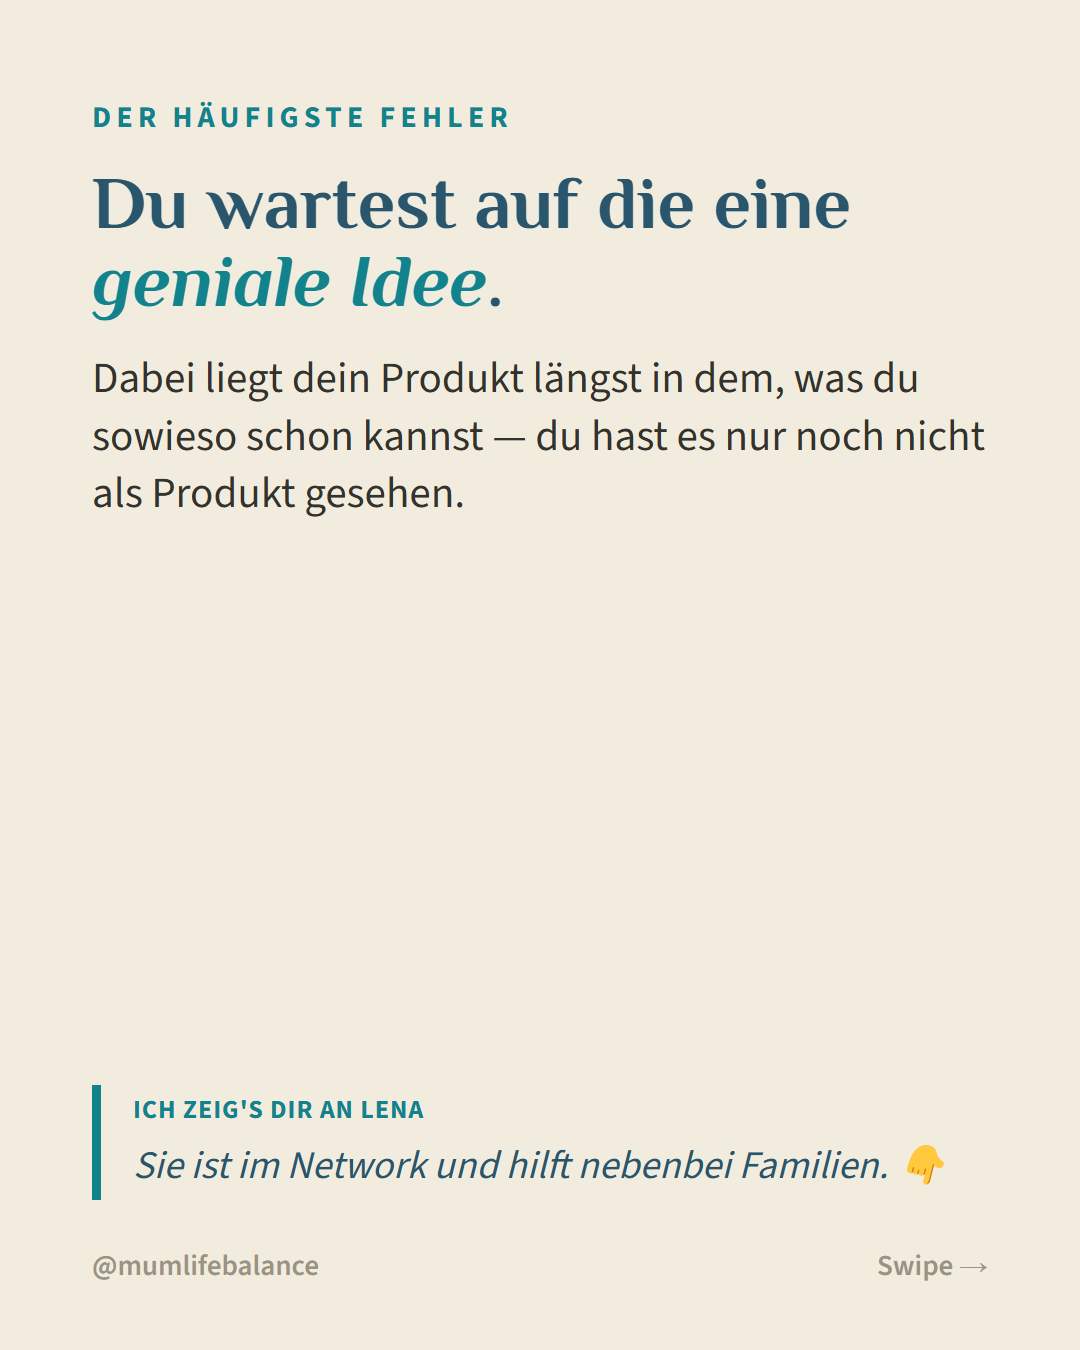
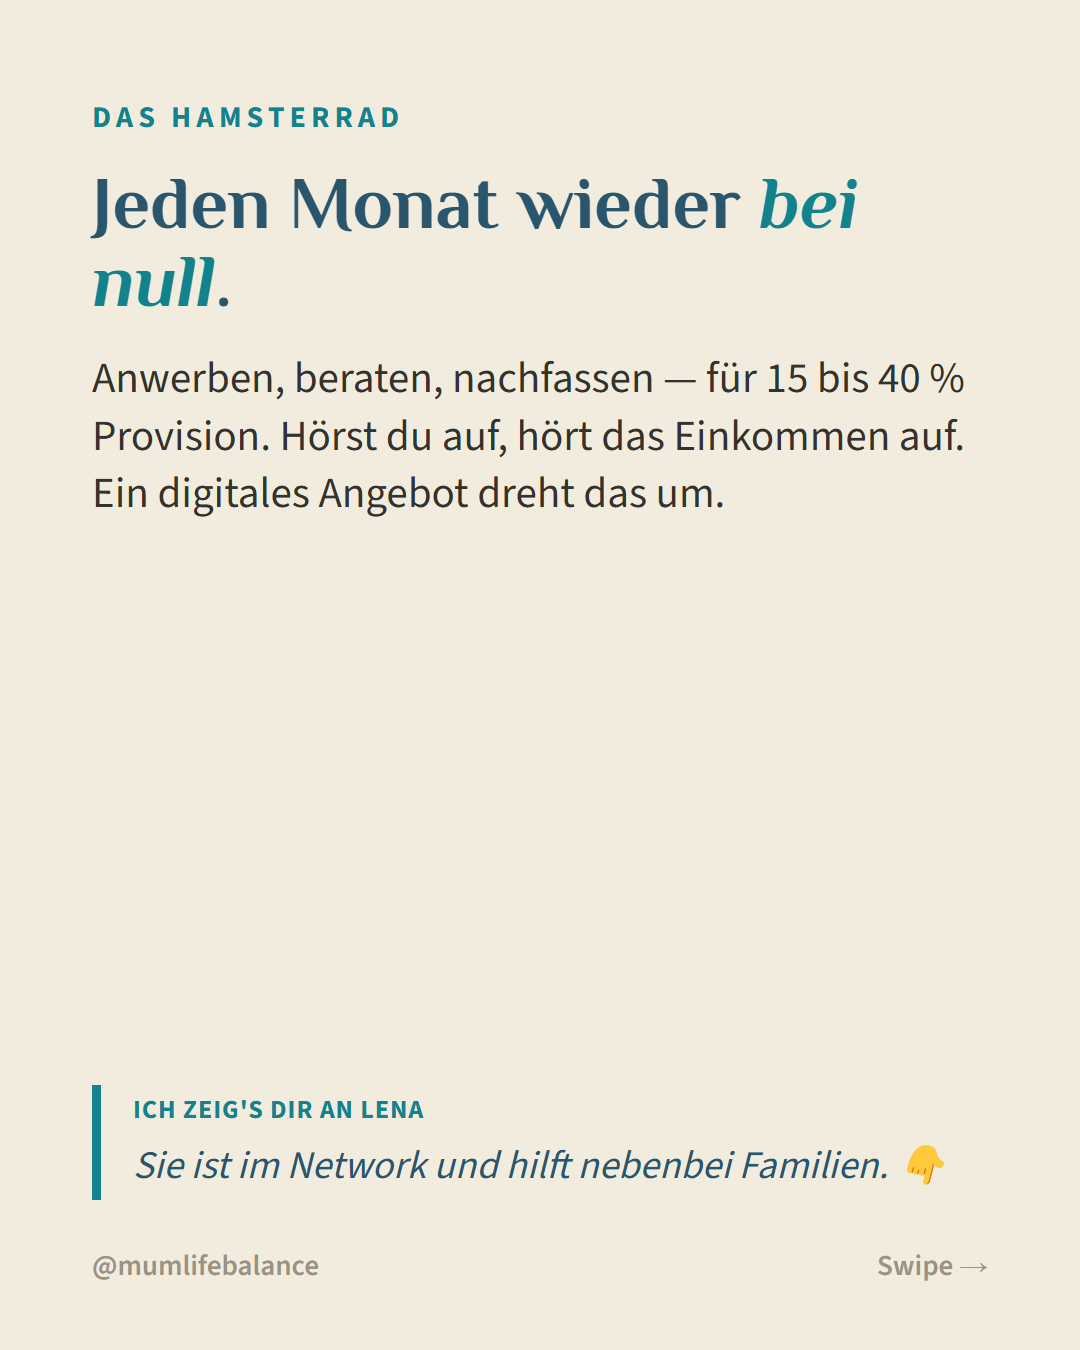
auto-sync: 2026-07-14 21:11 (18 files)

Changed region(s): [[0.0917, 0.1244, 0.9167, 0.4044], [0.0917, 0.0622, 0.4889, 0.0933]]

diff --git a/outputs/karussells/2026-07-24-1zu1-zu-system/slides.html b/outputs/karussells/2026-07-24-1zu1-zu-system/slides.html
@@ -17,12 +17,10 @@
   .example{ margin-top:auto; font-size:39px; line-height:1.34; color:var(--dunkelblau); border-left:9px solid var(--petrol); padding:8px 0 8px 32px; font-style:italic; }
   .example b{ font-style:normal; font-weight:700; letter-spacing:0.04em; display:block; font-size:26px; color:var(--petrol); margin-bottom:12px; text-transform:uppercase; }
   .footer{ position:absolute; left:92px; right:92px; bottom:64px; display:flex; justify-content:space-between; align-items:center; font-weight:600; font-size:29px; color:var(--grey); }
-  /* Cover */
-  .cover .headline{ font-size:88px; }
-  /* CTA slide (Petrol) */
+  .cover .headline{ font-size:80px; }
   .cta{ background:var(--petrol); }
   .cta .eyebrow{ color:var(--creme); opacity:0.85; }
-  .cta .headline{ color:#fff; font-size:60px; }
+  .cta .headline{ color:#fff; font-size:58px; }
   .cta .body{ color:var(--creme); }
   .cta .keyword{ font-size:47px; line-height:1.3; color:#fff; font-weight:700; margin-top:30px; }
   .cta .keyword span{ color:#ffe; background:rgba(255,255,255,0.16); padding:2px 16px; border-radius:10px; }
@@ -31,108 +29,98 @@
 </head>
 <body>
 
-<!-- 1 Cover -->
 <div class="slide cover">
   <div class="pad center">
-    <div class="eyebrow">Raus aus dem Provisions-Hamsterrad</div>
-    <div class="headline">Dein erstes <span class="pop">digitales Angebot</span> — das für dich weiterarbeitet</div>
+    <div class="eyebrow">Schluss mit „jeden Monat bei null"</div>
+    <div class="headline">Wie aus deinem 1:1-Wissen ein <span class="pop">System</span> wird, das für dich weiterbegleitet</div>
   </div>
   <div class="footer"><span>@mumlifebalance</span><span>Swipe →</span></div>
 </div>
 
-<!-- 2 Problem -->
 <div class="slide">
   <div class="pad">
-    <div class="eyebrow">Das Hamsterrad</div>
-    <div class="headline">Jeden Monat wieder <span class="pop">bei null</span>.</div>
-    <div class="body">Anwerben, beraten, nachfassen — für 15 bis 40 % Provision. Hörst du auf, hört das Einkommen auf. Ein digitales Angebot dreht das um.</div>
-    <div class="example"><b>Ich zeig's dir an Lena</b>Sie ist im Network und hilft nebenbei Familien. 👇</div>
+    <div class="eyebrow">Das Problem</div>
+    <div class="headline">Du betreust <span class="pop">alle einzeln</span></div>
+    <div class="body">Dieselben Fragen, dieselben ersten Schritte — bei jeder neuen Person wieder von vorne. Das frisst genau die Zeit, die du als Mama eh nicht hast.</div>
+    <div class="example"><b>Ich zeig's dir an Nina</b>Sie begleitet Leute rund um mehr Energie im Alltag. 👇</div>
   </div>
   <div class="footer"><span>@mumlifebalance</span><span>Swipe →</span></div>
 </div>
 
-<!-- 3 Schritt 1 -->
 <div class="slide">
   <div class="pad">
     <div class="eyebrow">Schritt 1</div>
-    <div class="headline">Sammle die <span class="pop">Fragen</span></div>
-    <div class="body">Welche eine Frage bekommst du immer wieder gestellt?</div>
-    <div class="example"><b>Bei Lena</b>Sie wird ständig gefragt: „Wie bringst du dein Kind dazu, Gemüse zu essen?"</div>
+    <div class="headline">Schreib auf, was du <span class="pop">immer</span> erklärst</div>
+    <div class="body">Was sagst du jeder neuen Person sowieso in den ersten Wochen?</div>
+    <div class="example"><b>Bei Nina</b>Die immer gleichen ersten Schritte zu mehr Energie — die erklärt sie zum hundertsten Mal.</div>
   </div>
   <div class="footer"><span>@mumlifebalance</span><span>Swipe →</span></div>
 </div>
 
-<!-- 4 Schritt 2 -->
 <div class="slide">
   <div class="pad">
     <div class="eyebrow">Schritt 2</div>
-    <div class="headline">Zeichne deinen <span class="pop">Weg</span> nach</div>
-    <div class="body">Was hast du selbst rausgefunden, das andere abkürzen wollen?</div>
-    <div class="example"><b>Bei Lena</b>Sie hat's mit ihren eigenen drei Kindern gelernt — durch viel Ausprobieren am Familientisch.</div>
+    <div class="headline">Bring es in eine <span class="pop">Reihenfolge</span></div>
+    <div class="body">Aus deinem Bauchgefühl wird ein klarer Ablauf, Schritt für Schritt.</div>
+    <div class="example"><b>Bei Nina</b>Woche 1, Woche 2, Woche 3 — jede Woche ein klarer nächster Schritt.</div>
   </div>
   <div class="footer"><span>@mumlifebalance</span><span>Swipe →</span></div>
 </div>
 
-<!-- 5 Schritt 3 -->
 <div class="slide">
   <div class="pad">
     <div class="eyebrow">Schritt 3</div>
-    <div class="headline">Benenne die eine <span class="pop">Transformation</span></div>
-    <div class="body">Von wo nach wo bringst du jemanden? In einem Satz.</div>
-    <div class="example"><b>Bei Lena</b>Von „jedes Essen ist ein Machtkampf" zu „die Kinder essen einfach mit".</div>
+    <div class="headline">Pack es in ein Format, das <span class="pop">von allein</span> ausliefert</div>
+    <div class="body">Etwas, das die Schritte ausspielt, ohne dass du jede Nachricht selbst tippst.</div>
+    <div class="example"><b>Bei Nina</b>Eine kleine Mail-Serie: jede Woche eine Mail mit dem nächsten Schritt.</div>
   </div>
   <div class="footer"><span>@mumlifebalance</span><span>Swipe →</span></div>
 </div>
 
-<!-- 6 Schritt 4 -->
 <div class="slide">
   <div class="pad">
     <div class="eyebrow">Schritt 4</div>
-    <div class="headline">Wähl das <span class="pop">kleinste Format</span></div>
-    <div class="body">Es muss nicht gross sein. Es muss die Person ans Ziel bringen.</div>
-    <div class="example"><b>Bei Lena</b>Kein grosser Kurs. Eine Checkliste: „10 Tricks, wie Gemüse auf dem Teller landet".</div>
+    <div class="headline">Häng den <span class="pop">nächsten Schritt</span> an</div>
+    <div class="body">Am Ende der Serie zeigst du automatisch, wie es weitergeht.</div>
+    <div class="example"><b>Bei Nina</b>Die letzte Mail lädt von allein zu ihrem grösseren Angebot ein.</div>
   </div>
   <div class="footer"><span>@mumlifebalance</span><span>Swipe →</span></div>
 </div>
 
-<!-- 7 Schritt 5 -->
 <div class="slide">
   <div class="pad">
     <div class="eyebrow">Schritt 5</div>
-    <div class="headline">Verkauf es einmal, <span class="pop">bevor du's baust</span></div>
-    <div class="body">Frag ein paar Leute, ob sie's wirklich wollen.</div>
-    <div class="example"><b>Bei Lena</b>Sie fragt drei Mamas aus ihrer Gruppe — alle drei sagen sofort ja.</div>
+    <div class="headline">Einmal aufsetzen — dann <span class="pop">läuft's mit</span></div>
+    <div class="body">Neue Anmeldung rein, das System begleitet sie durch.</div>
+    <div class="example"><b>Bei Nina</b>Sie greift nur noch da ein, wo's wirklich sie braucht — der Rest passiert von selbst.</div>
   </div>
   <div class="footer"><span>@mumlifebalance</span><span>Swipe →</span></div>
 </div>
 
-<!-- 8 Ergebnis -->
 <div class="slide">
   <div class="pad center">
     <div class="eyebrow">Das Ergebnis</div>
-    <div class="headline">Lenas erstes Angebot — an <span class="pop">einem Nachmittag</span></div>
-    <div class="body">Aus einer Frage, die sie eh ständig beantwortet. Einmal gebaut, begleitet es ihre Kundschaft heute automatisch weiter — auch wenn sie grad am Spielplatz sitzt.</div>
+    <div class="headline">Mehr Leute begleitet — und trotzdem <span class="pop">mehr Zeit</span></div>
+    <div class="body">Weil das System die ersten Schritte übernimmt, hat Nina den Kopf frei für ihre Kinder — und ihr Einkommen startet nicht mehr jeden Monat bei null.</div>
   </div>
   <div class="footer"><span>@mumlifebalance</span><span>Swipe →</span></div>
 </div>
 
-<!-- 9 Auf dich -->
 <div class="slide">
   <div class="pad center">
     <div class="eyebrow">Und du?</div>
-    <div class="headline">Auf diesem <span class="pop">Wissen</span> sitzt du längst</div>
-    <div class="body">Es muss es nur einmal jemand als Angebot sichtbar machen — du.</div>
+    <div class="headline">Dein Wissen einmal in ein <span class="pop">System</span> giessen</div>
+    <div class="body">Statt es hundertmal einzeln zu tippen. Das geht mit jedem Thema, in dem du Leute begleitest.</div>
   </div>
   <div class="footer"><span>@mumlifebalance</span><span>Swipe →</span></div>
 </div>
 
-<!-- 10 CTA -->
 <div class="slide cta">
   <div class="pad center">
     <div class="eyebrow">Deine 5 Schritte</div>
-    <div class="headline">Fragen sammeln · Weg nachzeichnen · Transformation benennen · kleinstes Format · einmal vorverkaufen</div>
-    <div class="body">💾 Speicher dir das für deinen Produkt-Tag.</div>
-    <div class="keyword">Welches Produkt steckt in DIR? Kommentier <span>QUIZ</span> — ich schick dir den Potenzial-Test.</div>
+    <div class="headline">Aufschreiben · in Reihenfolge bringen · Format wählen · nächsten Schritt anhängen · einmal aufsetzen</div>
+    <div class="body">💾 Speicher dir das für deinen System-Tag.</div>
+    <div class="keyword">Welches System passt zu DIR? Kommentier <span>QUIZ</span> — ich schick dir den Potenzial-Test.</div>
   </div>
   <div class="footer"><span>@mumlifebalance</span><span></span></div>
 </div>

diff --git a/outputs/funnels/zentrale-pitch-automation/mails/mail-M5-pioneer.html b/outputs/funnels/zentrale-pitch-automation/mails/mail-M5-pioneer.html
@@ -6,7 +6,7 @@
   <title>Warum die ersten Frauen weniger zahlen</title>
 </head>
 <body style="margin:0;padding:0;background-color:#f4f0e6;font-family:Arial,sans-serif;">
-  <div style="display:none;max-height:0;overflow:hidden;mso-hide:all;">Pioneer-Preis, solange die erste Runde läuft. &nbsp;&nbsp;&nbsp;&nbsp;</div>
+  <div style="display:none;max-height:0;overflow:hidden;mso-hide:all;">Danach gilt der reguläre Preis. &nbsp;&nbsp;&nbsp;&nbsp;</div>
   <table width="100%" cellpadding="0" cellspacing="0" border="0" style="background-color:#f4f0e6;">
     <tr>
       <td align="center" style="padding:30px 16px;">
@@ -15,16 +15,22 @@
             <td style="background:linear-gradient(135deg,#0c1c30 0%,#29556d 60%,#12828c 100%);border-radius:16px 16px 0 0;padding:48px 40px;">
               <table width="100%" cellpadding="0" cellspacing="0" border="0">
                 <tr><td style="padding-bottom:20px;"><span style="background-color:#dc822e;color:#ffffff;font-family:Arial,sans-serif;font-size:11px;font-weight:bold;letter-spacing:2px;text-transform:uppercase;padding:6px 14px;border-radius:20px;">mumlifebalance · Newsletter</span></td></tr>
-                <tr><td><h1 style="margin:0 0 16px 0;font-family:Georgia,serif;font-size:32px;font-weight:bold;color:#f1ecdd;line-height:1.25;">Warum die ersten Frauen weniger zahlen</h1></td></tr>
-                <tr><td><p style="margin:0;font-family:Georgia,serif;font-style:italic;font-size:16px;color:rgba(241,236,221,0.72);line-height:1.5;">997 statt 1347 — und warum.</p></td></tr>
+                <tr><td><h1 style="margin:0 0 16px 0;font-family:Georgia,serif;font-size:32px;font-weight:bold;color:#f1ecdd;line-height:1.25;">Deine Pioneer-Frist läuft — 997 statt 1347</h1></td></tr>
+                <tr><td><p style="margin:0;font-family:Georgia,serif;font-style:italic;font-size:16px;color:rgba(241,236,221,0.72);line-height:1.5;">Ab jetzt zählt's für dich runter.</p></td></tr>
               </table>
             </td>
           </tr>
           <tr>
             <td style="background-color:#ffffff;padding:40px;">
-              <p style="margin:0 0 18px 0;font-family:Arial,sans-serif;font-size:16px;color:#0c1c30;line-height:1.7;">Kurz und ehrlich: solange die erste Pioneer-Runde offen ist, kommst du für 997 Franken in die Mum Business Academy statt für 1347. Diesen Unterschied gibt es, weil die ersten Frauen mitgestalten und mir ehrliches Feedback geben — dafür sollen sie belohnt werden. Wenn die Runde voll ist, gilt der reguläre Preis.</p>
+              <p style="margin:0 0 18px 0;font-family:Arial,sans-serif;font-size:16px;color:#0c1c30;line-height:1.7;">In den letzten Tagen hab ich dir die Mum Business Academy gezeigt — was drin ist, für wen sie ist, und warum sie dir das Verzetteln abnimmt. Jetzt wird's konkret: ab jetzt läuft deine persönliche Pioneer-Frist. Solange sie läuft, kommst du für 997 Franken rein statt für 1347. Danach gilt der reguläre Preis — kein Trick, einfach die Belohnung dafür, dass du bei den Ersten dabei bist, die mitgestalten.</p>
+              <table width="100%" cellpadding="0" cellspacing="0" border="0" style="margin:24px 0;">
+                <tr><td align="center" style="background-color:#f1ecdd;border-radius:12px;padding:22px 24px;">
+                  <p style="margin:0 0 8px 0;font-family:Arial,sans-serif;font-size:11px;font-weight:bold;color:#dc822e;text-transform:uppercase;letter-spacing:2px;">Deine Pioneer-Frist</p>
+                  <p style="margin:0;font-family:Georgia,serif;font-size:20px;color:#0c1c30;line-height:1.4;">[ COUNTDOWN-BILD hier — aus Automate Hero / Deadline Funnel einsetzen ]</p>
+                </td></tr>
+              </table>
               <p style="margin:0 0 18px 0;font-family:Arial,sans-serif;font-size:16px;color:#0c1c30;line-height:1.7;">Was du nach den ersten Wochen hast: dein Thema steht, dein erstes eigenes Produkt nimmt Form an, und dein KI-System läuft. Du arbeitest dann wieder mit Menschen, statt sechs Stunden am Tag Posts zu schreiben.</p>
-              <p style="margin:0 0 18px 0;font-family:Arial,sans-serif;font-size:16px;color:#0c1c30;line-height:1.7;">Wenn dich seit Wochen das Gefühl begleitet „ich will das endlich vergrössern" — das hier ist dein Moment, und der günstigere Einstieg gibt es nur, solange die Pioneer-Runde läuft.</p>
+              <p style="margin:0 0 18px 0;font-family:Arial,sans-serif;font-size:16px;color:#0c1c30;line-height:1.7;">Wenn dich seit Wochen das Gefühl begleitet „ich will das endlich vergrössern" — das hier ist dein Moment — und den Pioneer-Preis gibt es nur, solange deine Frist oben läuft.</p>
               <table width="100%" cellpadding="0" cellspacing="0" border="0" style="margin:28px 0;">
                 <tr><td align="center">
                   <a href="https://mumlifebalance.ch/mba/" style="display:inline-block;background-color:#dc822e;color:#ffffff;text-decoration:none;font-family:Arial,sans-serif;font-weight:bold;font-size:16px;padding:16px 32px;border-radius:12px;">Pioneer-Platz sichern (997 CHF)</a>

diff --git a/outputs/funnels/zentrale-pitch-automation/sichtbarkeit-engine-FINAL.md b/outputs/funnels/zentrale-pitch-automation/sichtbarkeit-engine-FINAL.md
@@ -237,16 +237,20 @@ Patricia
 
 ---
 
-#### Mail M5 · Tag 10 · Pioneer-Preis (sanfte Dringlichkeit) + P.S.
-**Betreff A:** Warum die ersten Frauen weniger zahlen
-**Betreff B:** Pioneer-Preis, solange die erste Runde läuft
-**Preheader:** 997 statt 1347 — und warum.
+#### Mail M5 · Tag 10 · Pioneer-Frist (echter Countdown) + P.S.
+**Betreff A:** Deine Pioneer-Frist läuft — 997 statt 1347
+**Betreff B:** Ab jetzt zählt's für dich runter
+**Preheader:** Danach gilt der reguläre Preis.
 
-Kurz und ehrlich: solange die erste Pioneer-Runde offen ist, kommst du für 997 Franken in die Mum Business Academy statt für 1347. Diesen Unterschied gibt es, weil die ersten Frauen mitgestalten und mir ehrliches Feedback geben — dafür sollen sie belohnt werden. Wenn die Runde voll ist, gilt der reguläre Preis.
+> ⏱ **Countdown einbauen:** Hier kommt das Countdown-Bild aus **Automate Hero** (Julias Tool) oder Deadline Funnel rein — persönliche Frist ab Eintritt in den MBA-Track, danach Preis-Umschaltung 997 → 1347.
+
+In den letzten Tagen hab ich dir die Mum Business Academy gezeigt — was drin ist, für wen sie ist, und warum sie dir das Verzetteln abnimmt. Jetzt wird's konkret: ab jetzt läuft deine persönliche Pioneer-Frist. Solange sie läuft, kommst du für 997 Franken rein statt für 1347. Danach gilt der reguläre Preis — kein Trick, einfach die Belohnung dafür, dass du bei den Ersten dabei bist, die mitgestalten.
+
+**[ COUNTDOWN-BILD ]**
 
 Was du nach den ersten Wochen hast: dein Thema steht, dein erstes eigenes Produkt nimmt Form an, und dein KI-System läuft. Du arbeitest dann wieder mit Menschen, statt sechs Stunden am Tag Posts zu schreiben.
 
-Wenn dich seit Wochen das Gefühl begleitet „ich will das endlich vergrössern" — das hier ist dein Moment, und der günstigere Einstieg gibt es nur, solange die Pioneer-Runde läuft.
+Wenn dich seit Wochen das Gefühl begleitet „ich will das endlich vergrössern" — das hier ist dein Moment, und den Pioneer-Preis gibt es nur, solange deine Frist oben läuft.
 
 Liebe Grüsse
 Patricia
